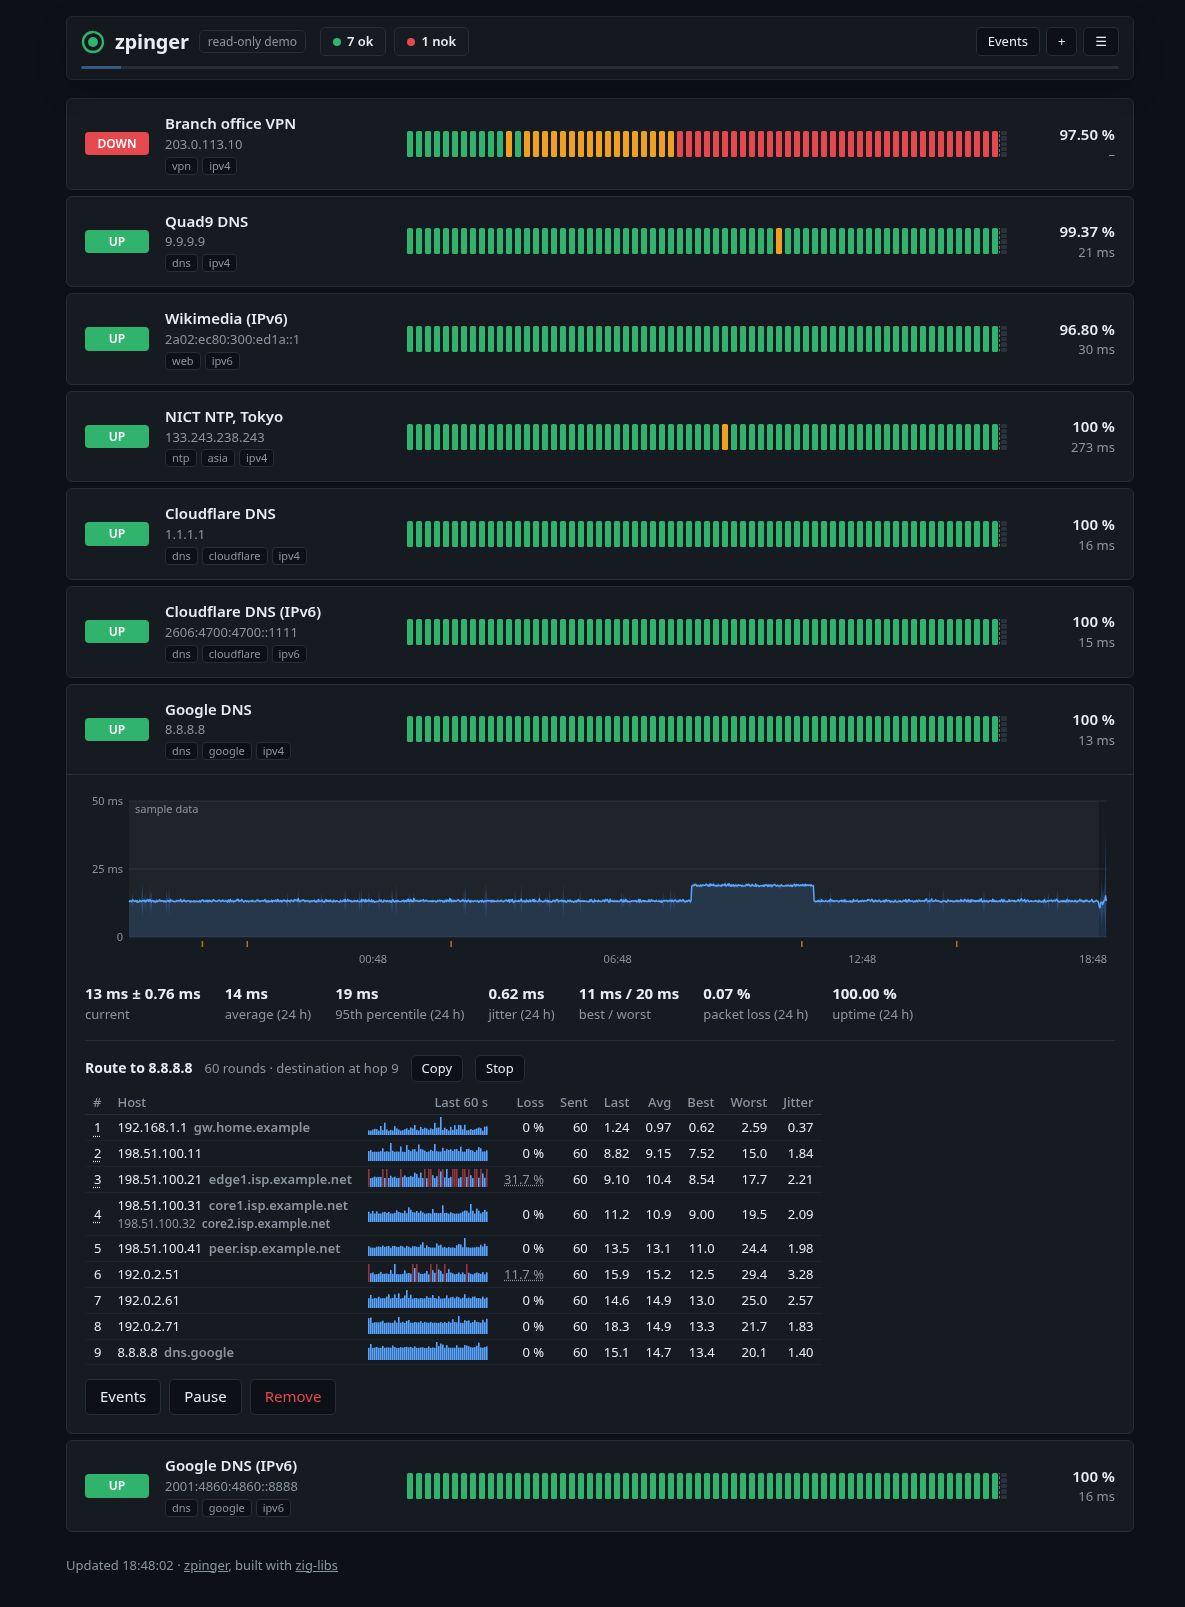
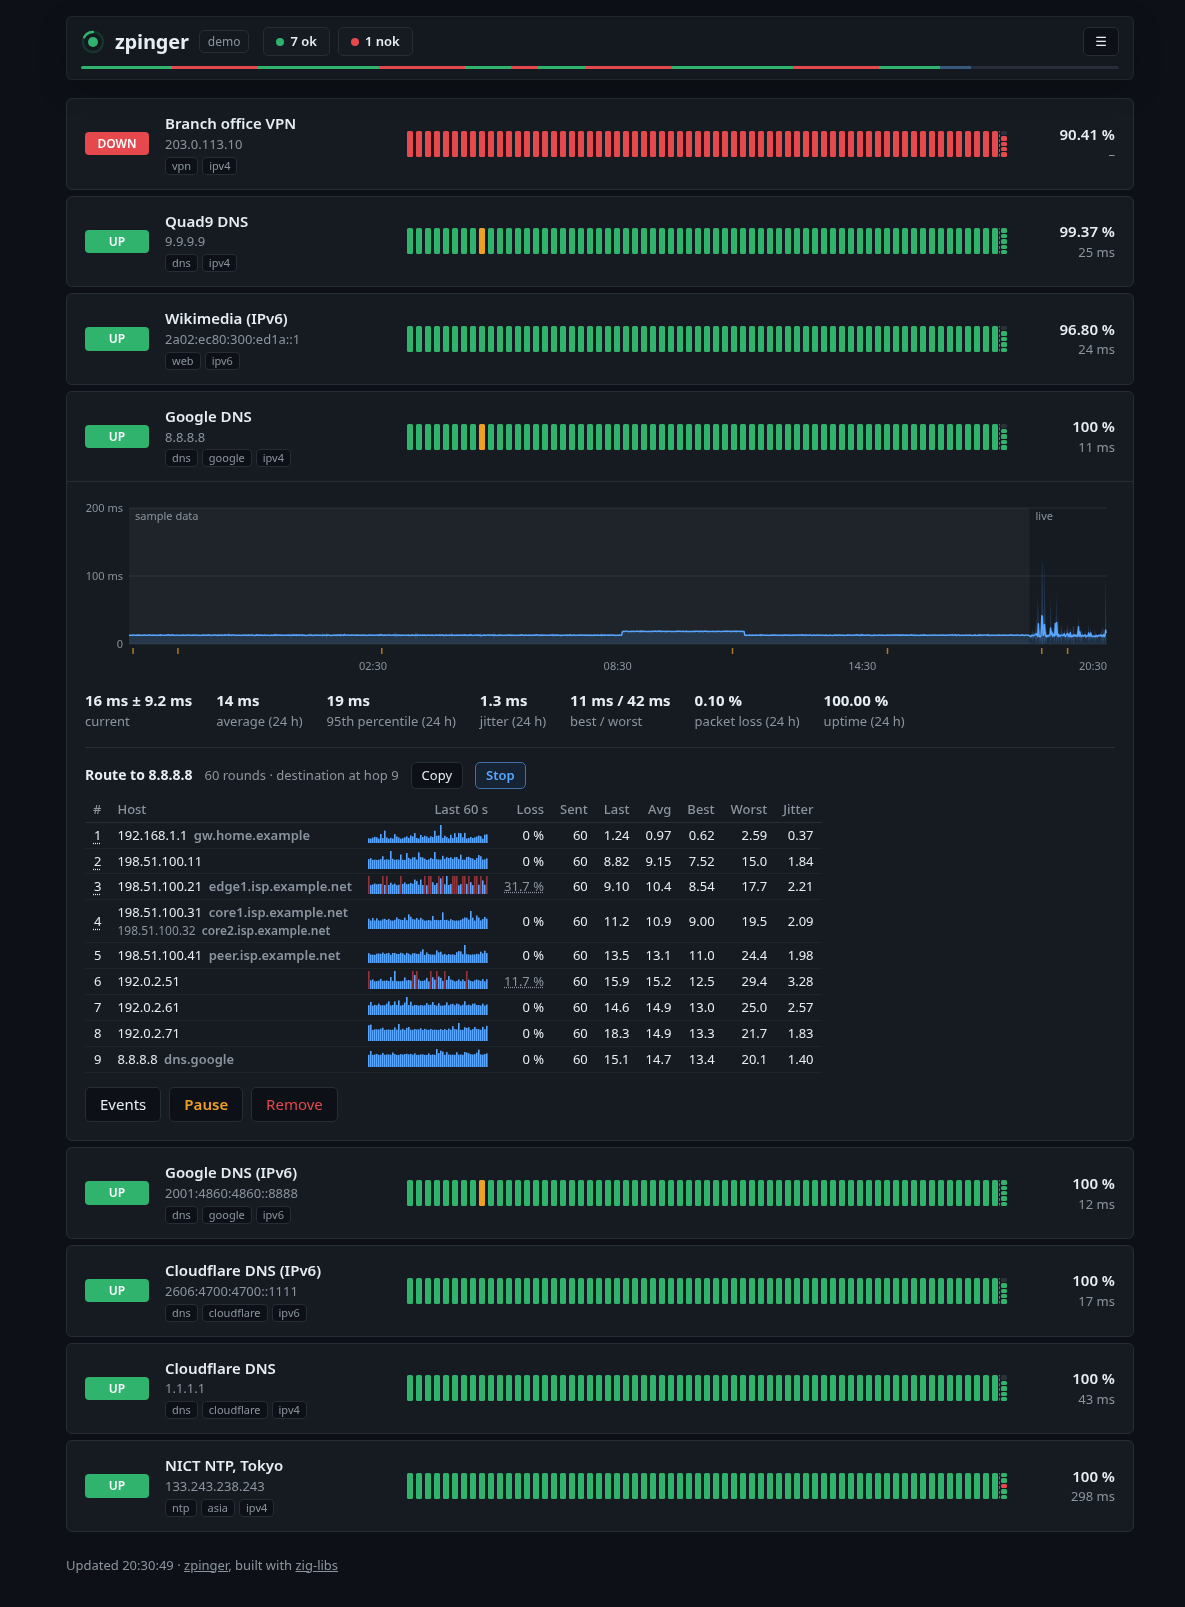
UI: view switches at the end of the menu, Hide events in the feed head
- The folded bar loses Events and +: the add form is reached through the
  menu, and Events is a switch next to CompactMode (was Compact), both on
  a line of their own at the very end of the unfolded bar.
- A feed (global, or a target's) closes with a Hide events button in its
  head, as a trace's Stop does; a row's Events action shows only while its
  feed is closed.
- Stop/Run again and Hide events are highlighted; Pause has amber text.
- The read-only mode tag says just "demo".
- README screenshot regenerated.

diff --git a/src/web/app.js b/src/web/app.js
@@ -685,15 +685,30 @@ function fillFeed(events, withName, empty) {
   return list;
 }
 
-// The global feed: the events of the targets the list shows.
+// The button that closes a feed, in its head (as Stop is in a trace's head).
+function hideButton(hint, fn) {
+  const b = el("button", "strong", "Hide events");
+  b.type = "button";
+  b.title = hint;
+  b.addEventListener("click", fn);
+  return b;
+}
+
+// The global feed: the events of the targets the list shows. The bar's
+// Events switch opens it; the switch or its Hide button closes it.
 let feedOpen = false;
+function setFeed(open) {
+  feedOpen = open;
+  if (state) render();
+}
 function renderFeed(shown) {
   const box = $("#feed");
   box.hidden = !feedOpen;
-  $("#events").setAttribute("aria-expanded", String(feedOpen));
+  $("#events").checked = feedOpen;
   if (!feedOpen) return;
   const head = el("div", "feed-head");
   head.append(el("b", null, "Events"), el("span", "note", filtered() ? `last 24 hours, the ${shown.length} targets shown` : "last 24 hours"));
+  head.append(hideButton("Hide the events (the Events switch in ☰ shows them again)", () => setFeed(false)));
   head.title = "Runs of cycles that lost probes (DOWN: some lost every probe); a single cycle that lost one probe is left out";
   box.replaceChildren(head, fillFeed(shown.flatMap(episodes), true, "Nothing went wrong."));
 }
@@ -706,13 +721,18 @@ function showTarget(id) {
   $(`[data-target="${id}"]`)?.scrollIntoView({ block: "center", behavior: "smooth" });
 }
 
-// The per-target feed in a row's detail; open ones are remembered.
+// The per-target feed in a row's detail; open ones are remembered. The
+// row's Events action opens it, the Hide button in its head closes it.
 const rowFeeds = new Set();
 function renderRowFeed(box, t) {
   box.hidden = !rowFeeds.has(t.id);
   if (box.hidden) return box.replaceChildren();
   const head = el("div", "feed-head");
   head.append(el("b", null, "Events"), el("span", "note", "last 24 hours"));
+  head.append(hideButton("Hide this target's events", () => {
+    rowFeeds.delete(t.id);
+    redrawRow(t.id);
+  }));
   box.replaceChildren(head, fillFeed(episodes(t), false, "Nothing went wrong."));
 }
 
@@ -1015,23 +1035,21 @@ function renderDetail(detail, t, s) {
   const base = `api/targets/${t.id}`;
   const feed = $(".row-feed", detail);
   renderRowFeed(feed, t);
-  const events = el("button", null, rowFeeds.has(t.id) ? "Hide events" : "Events");
-  events.type = "button";
-  events.title = "This target's problems of the last 24 hours: DOWN, and loss of probes";
-  events.setAttribute("aria-expanded", String(rowFeeds.has(t.id)));
-  events.addEventListener("click", () => {
-    if (rowFeeds.has(t.id)) rowFeeds.delete(t.id);
-    else rowFeeds.add(t.id);
-    renderRowFeed(feed, t);
-    events.textContent = rowFeeds.has(t.id) ? "Hide events" : "Events";
-    events.setAttribute("aria-expanded", String(rowFeeds.has(t.id)));
-  });
-  actions.append(events);
+  if (!rowFeeds.has(t.id)) {
+    const events = el("button", null, "Events");
+    events.type = "button";
+    events.title = "This target's problems of the last 24 hours: DOWN, and loss of probes";
+    events.addEventListener("click", () => {
+      rowFeeds.add(t.id);
+      redrawRow(t.id);
+    });
+    actions.append(events);
+  }
   renderTrace($(".trace", detail), t);
   if (!traces.has(t.id))
     action("Trace route", "Show the path to this host live, hop by hop, like mtr: one probe to every hop each second, with loss and latency per hop", () => startTrace(t));
   if (t.paused) action("Resume", "Start probing this target again", () => call("POST", `${base}/resume`));
-  else action("Pause", "Stop probing this target, e.g. during maintenance; the history is kept", () => call("POST", `${base}/pause`));
+  else action("Pause", "Stop probing this target, e.g. during maintenance; the history is kept", () => call("POST", `${base}/pause`), "pause");
   if (t.status === "down" && !t.acked)
     action("Acknowledge", `Mark this outage as known: the target shows ACK instead of DOWN until ${state.ack_clear_after} cycles in a row are not DOWN`, () => call("POST", `${base}/ack`));
   if (t.acked) action("Remove acknowledgement", "Show this target as DOWN again", () => call("POST", `${base}/unack`));
@@ -1193,7 +1211,7 @@ function renderTrace(panel, t) {
   if (tr.stopped) facts.push(tr.stopped);
   if (tr.error) facts.push(tr.error);
   head.append(el("span", "note", facts.join(" · ")));
-  const again = el("button", null, tr.stopped ? "Run again" : "Stop");
+  const again = el("button", "strong", tr.stopped ? "Run again" : "Stop");
   again.type = "button";
   again.addEventListener("click", async () => {
     if (!tr.stopped) {
@@ -1797,7 +1815,7 @@ $("#menu").addEventListener("click", () => setMenu($("#menu-body").hidden));
 const COMPACT_KEY = "zpinger.compact";
 function setCompact(on) {
   document.body.classList.toggle("compact", on);
-  $("#compact").setAttribute("aria-pressed", String(on));
+  $("#compact").checked = on;
   try {
     if (on) localStorage.setItem(COMPACT_KEY, "1");
     else localStorage.removeItem(COMPACT_KEY);
@@ -1808,15 +1826,8 @@ function setCompact(on) {
 try {
   if (localStorage.getItem(COMPACT_KEY) === "1") setCompact(true);
 } catch {}
-$("#compact").addEventListener("click", () => setCompact(!document.body.classList.contains("compact")));
-$("#add-open").addEventListener("click", () => {
-  setMenu(true);
-  $("#add").name.focus();
-});
-$("#events").addEventListener("click", () => {
-  feedOpen = !feedOpen;
-  if (state) render();
-});
+$("#compact").addEventListener("change", (e) => setCompact(e.target.checked));
+$("#events").addEventListener("change", (e) => setFeed(e.target.checked));
 
 // A background tab does not poll; it catches up when shown again.
 load().then(pollLive);

diff --git a/src/web/style.css b/src/web/style.css
@@ -11,6 +11,8 @@
   --ack: #8b7cf6;
   --paused: #9aa5b1;
   --accent: #2f80ed;
+  /* Amber text that still reads on the light ground (--warn is too light). */
+  --warn-text: #a86400;
   /* Corners (owner 2026-11-14: less rounded): cards, controls, chips. */
   --r-card: 6px;
   --r-ctl: 5px;
@@ -26,6 +28,7 @@
     --line: #262d36;
     --empty: #2b323b;
     --accent: #58a6ff;
+    --warn-text: #f0a020;
     color-scheme: dark;
   }
 }
@@ -260,13 +263,21 @@ button.pill:focus-visible { outline: 2px solid var(--accent); outline-offset: 1p
 /* A thin rule sets the trace apart from the statistics above it. */
 .trace { margin-top: 16px; padding-top: 14px; border-top: 1px solid var(--line); }
 .trace-head { display: flex; flex-wrap: wrap; gap: 6px 12px; align-items: center; font-size: 14px; }
-.trace-head button {
+:is(.trace-head, .feed-head) button {
   font: inherit; font-size: 13px; padding: 3px 10px; border-radius: var(--r-ctl); cursor: pointer;
   border: 1px solid var(--line); background: var(--bg); color: var(--text);
 }
-.trace-head button:hover { border-color: var(--accent); }
-.trace-head button:focus-visible { outline: 2px solid var(--accent); outline-offset: 1px; }
+:is(.trace-head, .feed-head) button:hover { border-color: var(--accent); }
+:is(.trace-head, .feed-head) button:focus-visible { outline: 2px solid var(--accent); outline-offset: 1px; }
 .trace-head button.copied { border-color: var(--accent); color: var(--accent); }
+/* What closes an open panel (a trace's Stop, a feed's Hide events) stands
+   out, so it is not overlooked. */
+:is(.trace-head, .feed-head) button.strong {
+  font-weight: 600; color: var(--accent);
+  border-color: color-mix(in srgb, var(--accent) 55%, var(--line));
+  background: color-mix(in srgb, var(--accent) 12%, var(--bg));
+}
+:is(.trace-head, .feed-head) button.strong:hover { border-color: var(--accent); background: color-mix(in srgb, var(--accent) 20%, var(--bg)); }
 .hops-wrap { overflow-x: auto; margin-top: 8px; }
 .hops { border-collapse: collapse; font-size: 13px; font-variant-numeric: tabular-nums; white-space: nowrap; }
 .hops th { text-align: right; font-weight: 500; color: var(--muted); padding: 3px 8px; border-bottom: 1px solid var(--line); cursor: help; }
@@ -298,6 +309,7 @@ button, input { font: inherit; }
 }
 .actions button:hover, .add > button:hover { border-color: var(--accent); }
 .actions .danger { color: var(--down); }
+.actions .pause { color: var(--warn-text); font-weight: 600; }
 .note { color: var(--muted); font-size: 13px; align-self: center; }
 
 /* Tag picker, after GitHub's label picker. */
@@ -334,6 +346,23 @@ button, input { font: inherit; }
 .error { color: var(--down); font-size: 13px; flex-basis: 100%; }
 .error:empty { display: none; }
 .error.demo { color: var(--muted); }
+/* View switches (CompactMode, Events): a line of their own at the end of
+   the unfolded bar; a checkbox drawn as a sliding switch. */
+.switches { display: flex; flex-wrap: wrap; gap: 8px 22px; padding-top: 10px; border-top: 1px solid var(--line); }
+.switch { display: inline-flex; align-items: center; gap: 8px; font-size: 13px; cursor: pointer; user-select: none; }
+.switch input {
+  appearance: none; -webkit-appearance: none; margin: 0; flex: none; cursor: pointer;
+  position: relative; width: 30px; height: 18px; border-radius: 9px;
+  background: var(--empty); border: 1px solid var(--line); transition: background 0.15s;
+}
+.switch input::before {
+  content: ""; position: absolute; top: 2px; left: 2px; width: 12px; height: 12px; border-radius: 50%;
+  background: #fff; box-shadow: 0 1px 2px rgb(0 0 0 / 0.3); transition: transform 0.15s;
+}
+.switch input:checked { background: var(--accent); border-color: var(--accent); }
+.switch input:checked::before { transform: translateX(12px); }
+.switch input:focus-visible { outline: 2px solid var(--accent); outline-offset: 2px; }
+.switch:hover input { border-color: var(--accent); }
 
 footer { color: var(--muted); font-size: 13px; padding-top: 24px; padding-bottom: 32px; }
 footer a { color: inherit; }

diff --git a/src/web/index.html b/src/web/index.html
@@ -20,14 +20,12 @@
           <span class="dot"></span>
         </span>
         <h1>zpinger</h1>
-        <span id="mode" class="tag" hidden>read-only demo</span>
+        <span id="mode" class="tag" title="A read-only demo: changes are disabled" hidden>demo</span>
       </div>
       <div id="health" class="summary health-row" role="group" aria-label="Filter by health"></div>
       <span id="shown-mini" class="note"></span>
       <span class="bar-buttons">
-        <button id="events" class="bar-btn" type="button" aria-expanded="false" title="Problems of the last 24 hours, all targets">Events</button>
-        <button id="add-open" class="bar-btn" type="button" title="Add a target">+</button>
-        <button id="menu" class="bar-btn" type="button" aria-expanded="false" aria-controls="menu-body" title="Filters, order, and adding a target">☰</button>
+        <button id="menu" class="bar-btn" type="button" aria-expanded="false" aria-controls="menu-body" title="Filters, order, adding a target, and the view switches">☰</button>
       </span>
     </div>
     <div id="menu-body" class="bar-body" hidden>
@@ -38,7 +36,6 @@
           <select id="sort" aria-label="Order of the list" title="Order of the list"></select>
           <button id="order" type="button"></button>
         </span>
-        <button id="compact" class="bar-btn" type="button" aria-pressed="false" title="One line per target: more of them on a screen">Compact</button>
         <div id="tagbar" class="tagbar" role="group" aria-label="Filter by tag" hidden></div>
         <span id="shown" class="note"></span>
       </div>
@@ -52,6 +49,11 @@
         <button type="submit" title="Start probing this host, five times a minute">Add target</button>
         <span id="add-error" class="error" role="alert"></span>
       </form>
+      <!-- View switches, on a line of their own at the very end. -->
+      <div class="switches">
+        <label class="switch" title="One line per target: more of them on a screen"><input id="compact" type="checkbox" role="switch"> CompactMode</label>
+        <label class="switch" title="Problems of the last 24 hours, all targets shown, under the bar"><input id="events" type="checkbox" role="switch"> Events</label>
+      </div>
     </div>
     <div id="line" class="cycle-line" title="This cycle's probes as they come: green answered, red lost"></div>
   </header>

diff --git a/CHANGELOG.md b/CHANGELOG.md
@@ -24,12 +24,16 @@ and these entries come from zig-fping's CHANGELOG.md.
   the colour of the worst status.
 - **A floating, folded top bar.** One line: the logo, whose ring counts down
   to the next cycle (grey while the server does not answer), the `ok` and
-  `nok` pills, how many targets a filter leaves, Events, and ☰ for every
-  pill, the search, the order and the tags. A thin line along its bottom
+  `nok` pills, how many targets a filter leaves, and ☰ for every pill, the
+  search, the order, the tags, the add form and, on a line of their own at
+  the end, the CompactMode and Events switches. A read-only demo is marked
+  `demo`. A thin line along its bottom
   fills with the cycle's probes, green answered, red lost.
 - **Events.** The outages and losses of the last 24 hours, read from the
   history: under the bar for all targets shown, or in a target's detail for
-  that one, the newest on top; both hidden until asked for. A run of lossy
+  that one, the newest on top; both hidden until asked for (the Events
+  switch in ☰, a target's Events action) and closed by a highlighted
+  **Hide events** button in their head, as a trace's Stop is. A run of lossy
   cycles is one event (up to 5 clean cycles inside it do not end it), a DOWN
   one when some of its cycles lost every probe; a single cycle that lost one
   probe is left out.
@@ -57,8 +61,10 @@ and these entries come from zig-fping's CHANGELOG.md.
   a load test with slow readers); now `reason=write_aborted` at warn, like
   `body_aborted`, next to the `conn ... reason=timeout phase=write` line.
 - **New look:** less rounded corners, tighter spacing, a frosted bar (the
-  list scrolling under it shows through, blurred), and a **Compact** switch
-  in the bar: one line per target in one panel, remembered by the browser.
+  list scrolling under it shows through, blurred), and a **CompactMode**
+  switch in the bar: one line per target in one panel, remembered by the
+  browser. A trace's Stop and a feed's Hide events stand out; Pause is
+  amber.
 - **Light on the wire and in the browser, for large lists.** The page asks
   for the state only as a delta after the first load (`/api/state?since=`:
   the cycles since its own, 1.1 KB instead of 208 KB compressed per cycle at
@@ -68,7 +74,7 @@ and these entries come from zig-fping's CHANGELOG.md.
   The gap between two packets shrinks below 20 ms when a minute would not
   hold every probe otherwise (above about 580 targets). Measured up to 1000
   targets.
-- **The add form moved into the bar** (☰, or `+` to go straight to it); the
+- **The add form moved into the bar** (☰); the
   footer links to zpinger. The beat strips are fitted to their real width
   (a strip drawn before its row was in the page had about ten beats more).
 - **`--demo` keeps 12 hours of real data** (was 1 hour; half the history, so

diff --git a/CLAUDE.md b/CLAUDE.md
@@ -67,8 +67,10 @@ with the previous pin: a new default-on feature in a module arrives silently.
   (0 faint), OR among themselves, AND with tags and search; counts are facets.
 - The top bar floats (sticky) and is folded by default (owner, 2026-11-14): its one line
   holds the logo (its ring counts down to the next cycle, grey when the server does not
-  answer), the `ok · nok` pills, "N of M shown" while filtered, Events and ☰; unfolded it
-  adds every pill, search, order and tags (the browser remembers it unfolded). A 3 px line
+  answer), the `ok · nok` pills, "N of M shown" while filtered, and ☰; unfolded it
+  adds every pill, search, order, tags, the add form and last, on a line of their own, the
+  CompactMode and Events switches (owner 2026-11-14; the browser remembers it unfolded).
+  The read-only mode tag says just `demo`. A 3 px line
   along its bottom is the cycle's probing window, coloured probe by probe until full; no
   text in it (owner: text there is distracting).
 - Live (owner, 2026-11-14): the probes are spread over the cycle; a row's newest beat is
@@ -76,11 +78,13 @@ with the previous pin: a new default-on feature in a module arrives silently.
   the strip, a recorded beat "arrives", a status change flashes the row; the tab title
   counts nok targets and the favicon takes the worst colour.
 - Events (global under the bar, per target in the detail) are hidden by default; newest
-  (latest start) on top.
-- The add form lives in the unfolded bar (☰, or `+` in the folded row); the 3 px line sits
+  (latest start) on top. Opened by the Events switch / the row's Events action, closed by a
+  highlighted "Hide events" in the feed's head, like Stop in a trace's head (owner 2026-11-14:
+  Stop and Hide events stand out; Pause has amber text).
+- The add form lives in the unfolded bar (☰; no `+` shortcut, owner 2026-11-14); the 3 px line sits
   inside the bar, which closes below it (owner: the line over the list was distracting).
 - Look (owner 2026-11-14): corners `--r-card` 6 px / `--r-ctl` / `--r-chip` 5 px, frosted bar
-  (82 % card colour + blur), Compact switch (one line per target, localStorage), rows cached
+  (82 % card colour + blur), CompactMode switch (one line per target, localStorage), rows cached
   and updated in place (`rowSig` decides a rebuild), drawn 20 at a time (`PAGE`).
 - Target limit: 200 by default (tested and tuned); `ZPINGER_MAX_TARGETS` raises it for testing only.
 - Scale (measured 2026-11-14, netns sim up to 1000 targets with a cap-raised test build): the
